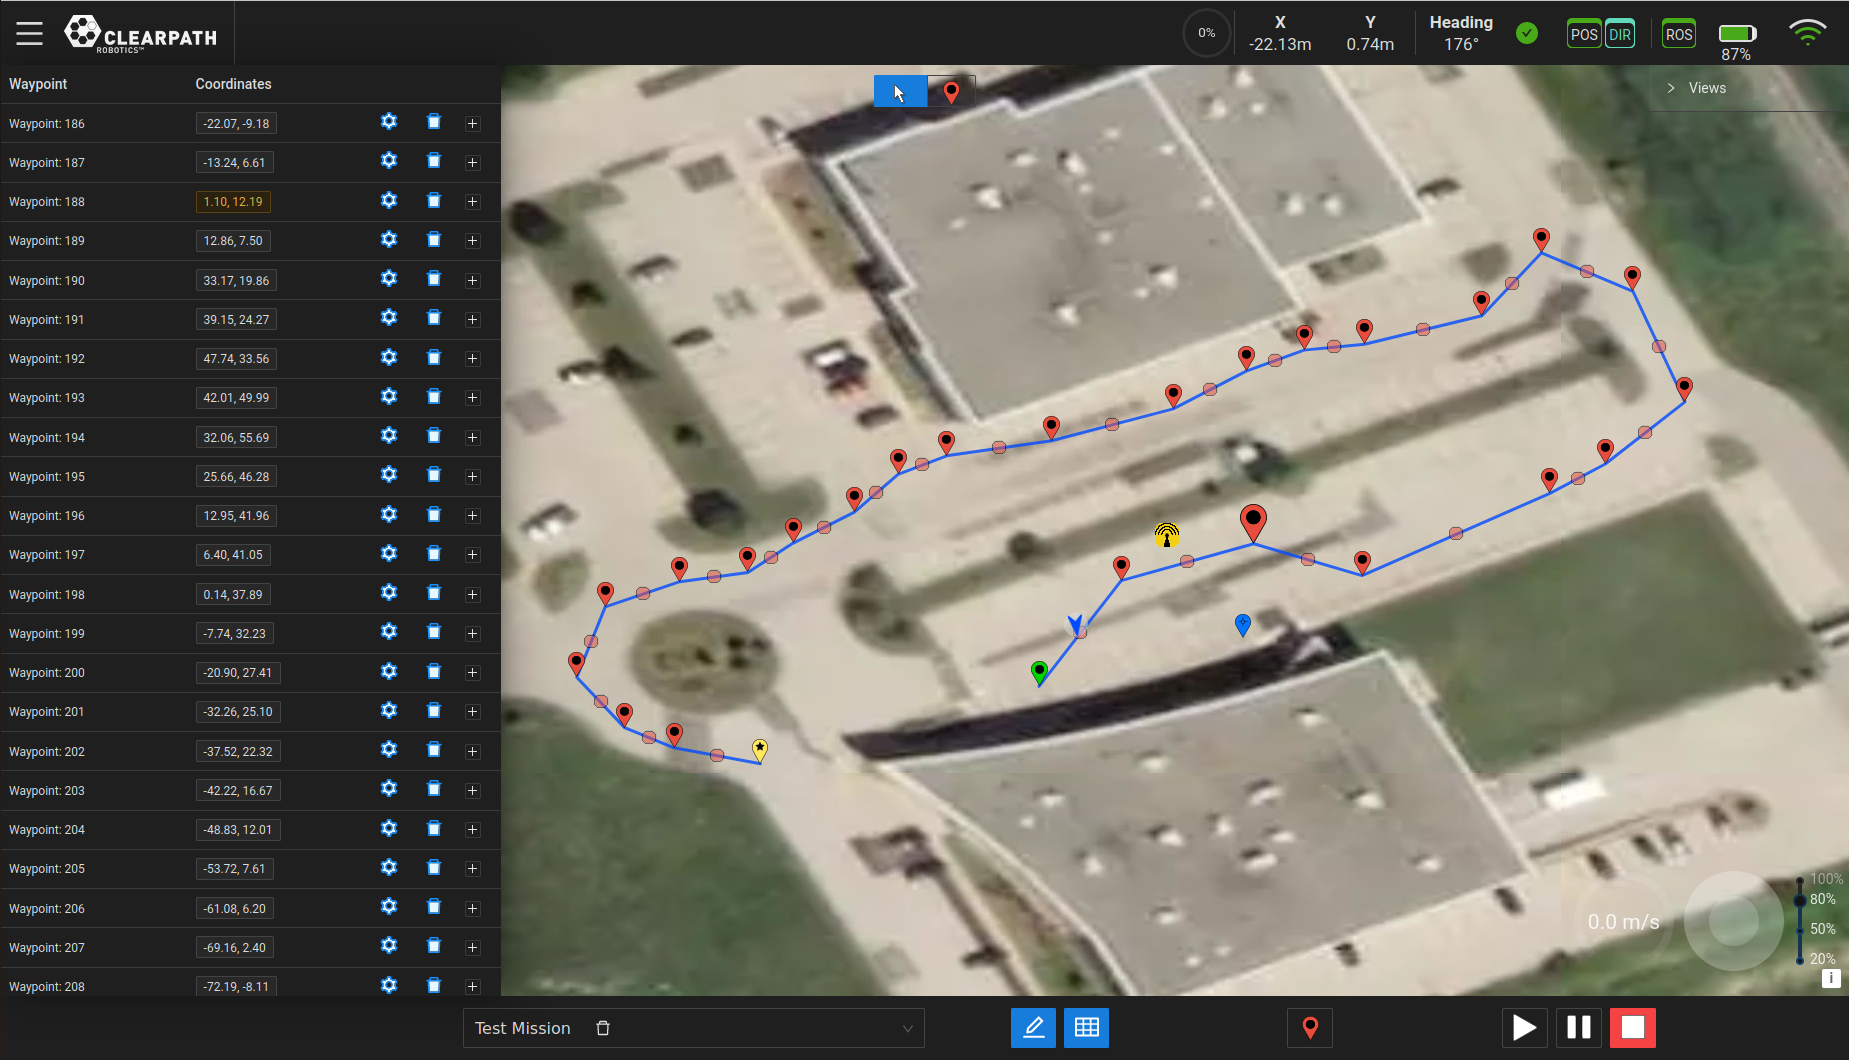
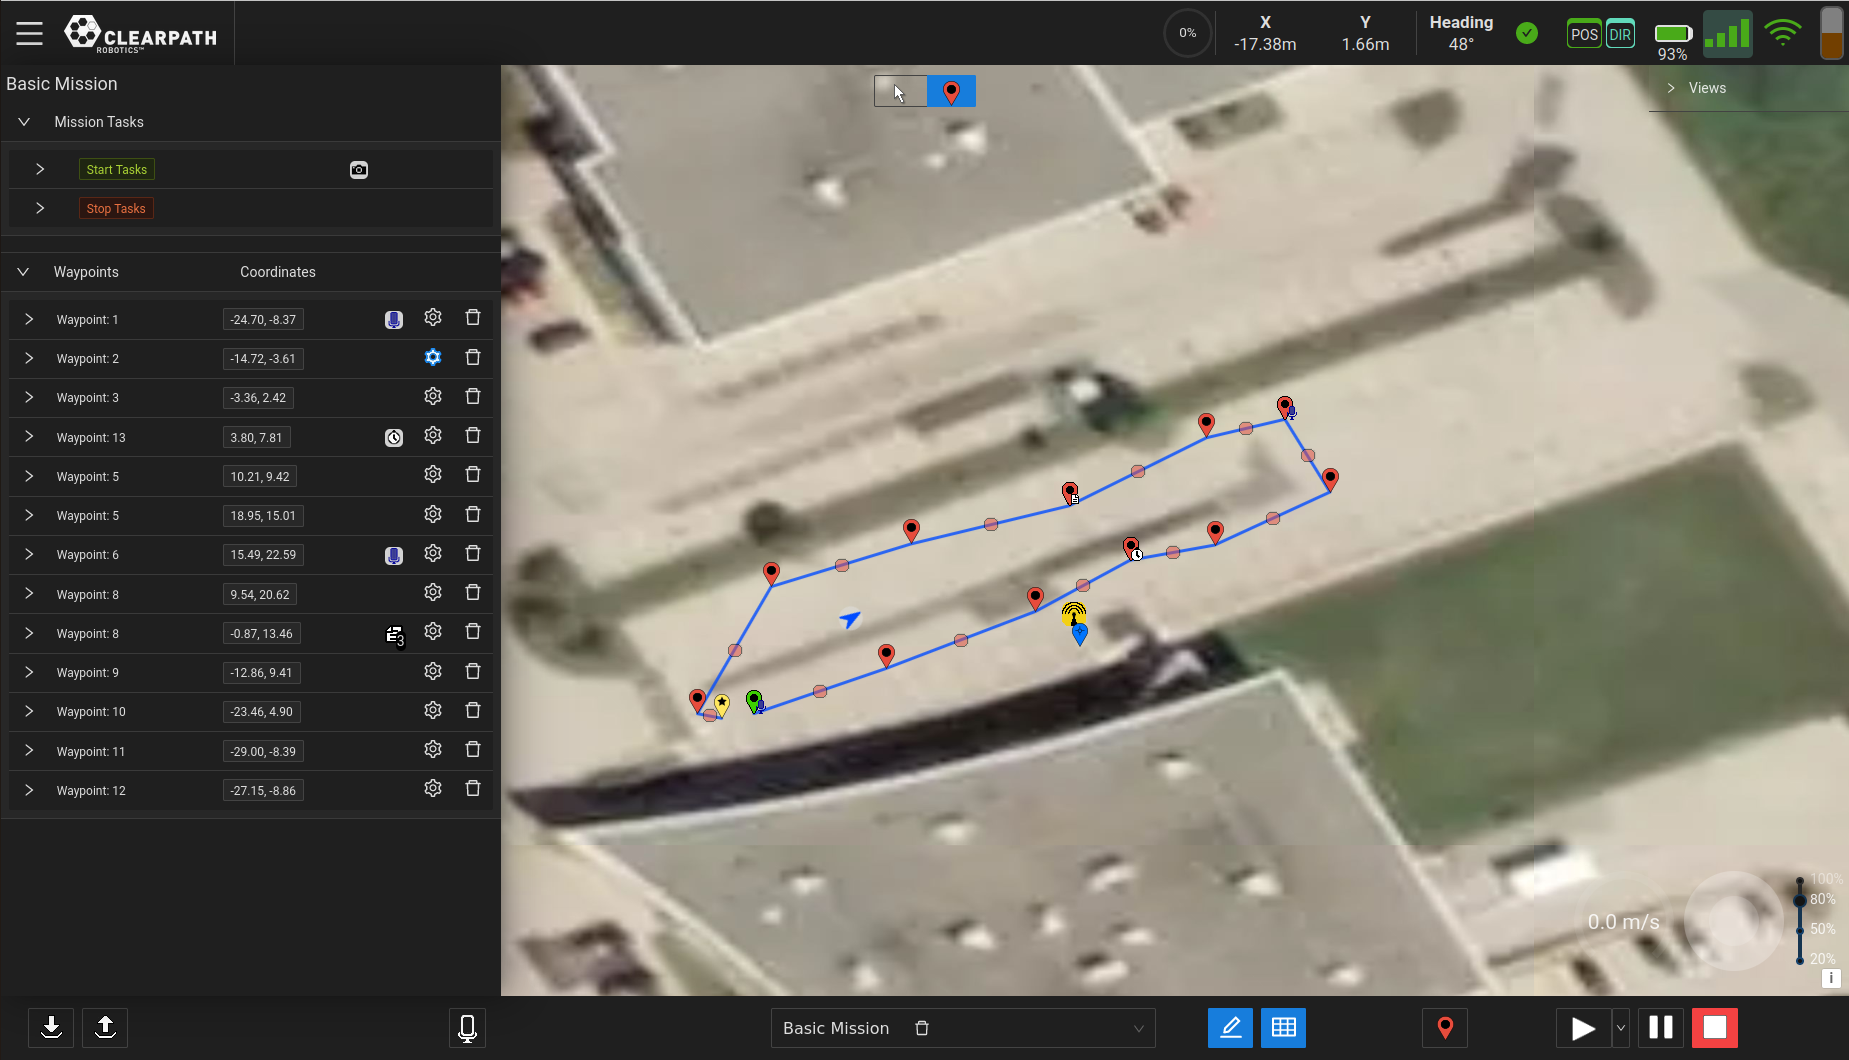
0.10 dev: Added in new screen shots as well as documentation for UI changes. Release notes still need some tweaking

diff --git a/src/theme/DocVersionBanner/index.js b/src/theme/DocVersionBanner/index.js
@@ -1,5 +1,5 @@
-import React from 'react';
-import DocVersionBanner from '@theme-original/DocVersionBanner';
+import React from "react";
+import DocVersionBanner from "@theme-original/DocVersionBanner";
 import { useLocation } from "@docusaurus/router";
 
 export default function DocVersionBannerWrapper(props) {
